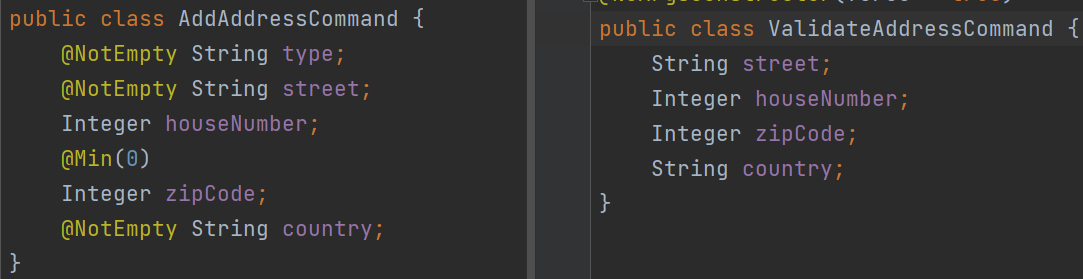
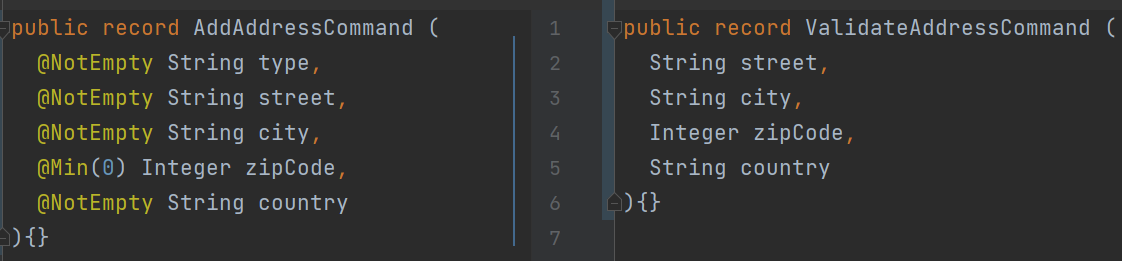
added records + minor bugfixes

diff --git a/application/src/test/java/de/strasser/peter/hexagonal/application/service/AddressServiceTest.java b/application/src/test/java/de/strasser/peter/hexagonal/application/service/AddressServiceTest.java
@@ -12,6 +12,7 @@ import org.springframework.beans.factory.annotation.Autowired;
 import org.springframework.boot.test.context.SpringBootTest;
 import org.springframework.boot.test.mock.mockito.MockBean;
 
+import javax.validation.ConstraintViolationException;
 import java.math.BigInteger;
 import java.time.LocalDate;
 import java.util.List;
@@ -43,18 +44,18 @@ class AddressServiceTest {
         .willReturn(Customer.createCustomer(customerId, name, passwd, birthday, null, false));
 
     final String street = "Parkring";
-    final int houseNumber = 57;
+    final String city = "Garching";
     final int zipCode = 85748;
     final String country = "Germany";
 
-    final Address validatedAddress = new Address(street, houseNumber, zipCode, country);
+    final Address validatedAddress = new Address(street, city, zipCode, country);
     final ValidateAddressCommand validateAddressCmd =
-        new ValidateAddressCommand(street, houseNumber, zipCode, country);
+        new ValidateAddressCommand(street, city, zipCode, country);
 
     given(addressValidatorAdapterMock.validate(validateAddressCmd)).willReturn(validatedAddress);
 
     final List<AddAddressCommand> addAddressCmds =
-        List.of(new AddAddressCommand("billing", street, houseNumber, zipCode, country));
+        List.of(new AddAddressCommand("billing", street, city, zipCode, country));
 
     sut.addAddresses(customerId, addAddressCmds);
 
@@ -81,18 +82,18 @@ class AddressServiceTest {
         .willReturn(Customer.createCustomer(customerId, name, passwd, birthday, null, false));
 
     final String street = "Parkring";
-    final int houseNumber = 57;
+    final String city = "Garching";
     final int zipCode = 85748;
     final String country = "Germany";
 
-    final Address validatedAddress = new Address(street, houseNumber, zipCode, country);
+    final Address validatedAddress = new Address(street, city, zipCode, country);
     final ValidateAddressCommand validateAddressCmd =
-        new ValidateAddressCommand(street, houseNumber, zipCode, country);
+        new ValidateAddressCommand(street, city, zipCode, country);
 
     given(addressValidatorAdapterMock.validate(validateAddressCmd)).willReturn(validatedAddress);
 
     final List<AddAddressCommand> addAddressCmds =
-        List.of(new AddAddressCommand("default", street, houseNumber, zipCode, country));
+        List.of(new AddAddressCommand("default", street, city, zipCode, country));
 
     sut.addAddresses(customerId, addAddressCmds);
 
@@ -119,20 +120,42 @@ class AddressServiceTest {
         .willReturn(Customer.createCustomer(customerId, name, passwd, birthday, null, false));
 
     final String street = "Parkring";
-    final int houseNumber = 57;
+    final String city = "Garching";
     final int zipCode = 85748;
     final String country = "Germany";
 
     final ValidateAddressCommand validateAddressCmd =
-        new ValidateAddressCommand(street, houseNumber, zipCode, country);
+        new ValidateAddressCommand(street, city, zipCode, country);
 
     given(addressValidatorAdapterMock.validate(validateAddressCmd))
         .willThrow(new IllegalArgumentException("invalid adress"));
 
     final List<AddAddressCommand> addAddressCmds =
-        List.of(new AddAddressCommand("billing", street, houseNumber, zipCode, country));
+        List.of(new AddAddressCommand("billing", street, city, zipCode, country));
 
     assertThrows(
         IllegalArgumentException.class, () -> sut.addAddresses(customerId, addAddressCmds));
+  }
+
+  @Test
+  public void should_ThrowConstrainValidationError_When_ProvidingNoCity() {
+    // GIVEN
+    final var customerId = BigInteger.valueOf(13);
+    final var name = "hans";
+    final var birthday = LocalDate.of(1980, 1, 1);
+    final var passwd = "secretPw";
+
+    given(loadCustomerAdapterMock.findById(any()))
+        .willReturn(Customer.createCustomer(customerId, name, passwd, birthday, null, false));
+
+    final String street = "Parkring";
+    final String city = null;
+    final int zipCode = 85748;
+    final String country = "Germany";
+    final List<AddAddressCommand> addAddressCmds =
+        List.of(new AddAddressCommand("billing", street, city, zipCode, country));
+
+    assertThrows(
+            ConstraintViolationException.class, () -> sut.addAddresses(customerId, addAddressCmds));
   }
 }

diff --git a/adapter/persistence/src/main/java/de/strasser/peter/hexagonal/persistence/mapper/CustomerMapper.java b/adapter/persistence/src/main/java/de/strasser/peter/hexagonal/persistence/mapper/CustomerMapper.java
@@ -33,15 +33,15 @@ public interface CustomerMapper {
         customer.getBirthday(),
         customer.isActive(),
         getAddressAttribute(customer, Address.AddressType.DEFAULT, Address::getStreet),
-        getAddressAttribute(customer, Address.AddressType.DEFAULT, Address::getHouseNumber),
+        getAddressAttribute(customer, Address.AddressType.DEFAULT, Address::getCity),
         getAddressAttribute(customer, Address.AddressType.DEFAULT, Address::getZipCode),
         getAddressAttribute(customer, Address.AddressType.DEFAULT, Address::getCountry),
         getAddressAttribute(customer, Address.AddressType.SHIPPING, Address::getStreet),
-        getAddressAttribute(customer, Address.AddressType.SHIPPING, Address::getHouseNumber),
+        getAddressAttribute(customer, Address.AddressType.SHIPPING, Address::getCity),
         getAddressAttribute(customer, Address.AddressType.SHIPPING, Address::getZipCode),
         getAddressAttribute(customer, Address.AddressType.SHIPPING, Address::getCountry),
         getAddressAttribute(customer, Address.AddressType.BILLING, Address::getStreet),
-        getAddressAttribute(customer, Address.AddressType.BILLING, Address::getHouseNumber),
+        getAddressAttribute(customer, Address.AddressType.BILLING, Address::getCity),
         getAddressAttribute(customer, Address.AddressType.BILLING, Address::getZipCode),
         getAddressAttribute(customer, Address.AddressType.BILLING, Address::getCountry),
         null);
@@ -66,16 +66,16 @@ public interface CustomerMapper {
           Address.AddressType.DEFAULT,
           new Address(
               customerEntity.getStreet(),
-              customerEntity.getHouseNumber(),
+              customerEntity.getCity(),
               customerEntity.getZipCode(),
               customerEntity.getCountry()));
     }
-    if (customerEntity.getBillingStreet() != null) {
+    if (customerEntity.getShippingStreet() != null) {
       addresses.put(
           Address.AddressType.SHIPPING,
           new Address(
               customerEntity.getShippingStreet(),
-              customerEntity.getShippingHouseNumber(),
+              customerEntity.getShippingCity(),
               customerEntity.getShippingZipCode(),
               customerEntity.getShippingCountry()));
     }
@@ -84,7 +84,7 @@ public interface CustomerMapper {
           Address.AddressType.BILLING,
           new Address(
               customerEntity.getBillingStreet(),
-              customerEntity.getBillingHouseNumber(),
+              customerEntity.getBillingCity(),
               customerEntity.getBillingZipCode(),
               customerEntity.getBillingCountry()));
     }

diff --git a/application/src/main/java/de/strasser/peter/hexagonal/application/service/AddressService.java b/application/src/main/java/de/strasser/peter/hexagonal/application/service/AddressService.java
@@ -10,6 +10,7 @@ import de.strasser.peter.hexagonal.application.port.out.LoadCustomerPort;
 import de.strasser.peter.hexagonal.application.port.out.SaveCustomerPort;
 import de.strasser.peter.hexagonal.common.UseCase;
 import lombok.RequiredArgsConstructor;
+import org.springframework.validation.annotation.Validated;
 
 import javax.transaction.Transactional;
 import javax.validation.Valid;
@@ -21,6 +22,7 @@ import java.util.List;
 import java.util.Map;
 
 @UseCase
+@Validated
 @Transactional
 @RequiredArgsConstructor
 class AddressService implements AddAddressUseCase {
@@ -43,7 +45,7 @@ class AddressService implements AddAddressUseCase {
 
   private void validateAndAddToMap(
       Map<Address.AddressType, Address> addresses, AddAddressCommand addAddressCommand) {
-    final var addressType = Address.AddressType.fromString(addAddressCommand.getType());
+    final var addressType = Address.AddressType.fromString(addAddressCommand.type());
     final var validateAddressCmd = addAddressMapper.toOutCmd(addAddressCommand);
     final var validatedAddress = addressValidatorAdapter.validate(validateAddressCmd);
 

diff --git a/adapter/web/src/main/java/de/strasser/peter/hexagonal/web/mapper/RegisterCustomerWebMapper.java b/adapter/web/src/main/java/de/strasser/peter/hexagonal/web/mapper/RegisterCustomerWebMapper.java
@@ -3,10 +3,18 @@ package de.strasser.peter.hexagonal.web.mapper;
 import de.strasser.peter.hexagonal.application.port.in.commands.RegisterCustomerCommand;
 import de.strasser.peter.hexagonal.web.dto.request.RegisterCustomerRequest;
 import org.mapstruct.Mapper;
-import org.mapstruct.Mapping;
 
 @Mapper
 public interface RegisterCustomerWebMapper {
-  @Mapping(source = "password", target = "clearPassword")
-  RegisterCustomerCommand toCmd(RegisterCustomerRequest registerCustomerRequest);
+  /**
+   * Can not be mapped by MapStruct currently, due to bug in JDK 16.
+   * https://github.com/mapstruct/mapstruct/issues/2294 @Mapping(source = "password", target =
+   * "clearPassword")
+   */
+  default RegisterCustomerCommand toCmd(RegisterCustomerRequest registerCustomerRequest) {
+    return new RegisterCustomerCommand(
+        registerCustomerRequest.getName(),
+        registerCustomerRequest.getBirthDay(),
+        registerCustomerRequest.getPassword());
+  }
 }

diff --git a/application/src/test/java/de/strasser/peter/hexagonal/application/domain/CustomerTest.java b/application/src/test/java/de/strasser/peter/hexagonal/application/domain/CustomerTest.java
@@ -28,7 +28,7 @@ class CustomerTest {
   @Test
   public void should_ActivateCustomer_When_AddingDefaultAddress() {
     final Customer customer = Customer.newCustomer("name", "pw", LocalDate.of(1980, 1, 1));
-    final Address address = new Address("Parkring", 59, 85748, "Germany");
+    final Address address = new Address("Parkring", "Garching", 85748, "Germany");
 
     customer.addAddresses(Collections.singletonMap(Address.AddressType.DEFAULT, address));
 
@@ -38,7 +38,7 @@ class CustomerTest {
   @Test
   public void should_NotActivateCustomer_When_AddingBillingAddress() {
     final Customer customer = Customer.newCustomer("name", "pw", LocalDate.of(1980, 1, 1));
-    final Address address = new Address("Parkring", 59, 85748, "Germany");
+    final Address address = new Address("Parkring", "Garching", 85748, "Germany");
 
     customer.addAddresses(Collections.singletonMap(Address.AddressType.BILLING, address));
 

diff --git a/adapter/addressvalidation/src/main/java/de/strasser/peter/hexagonal/addressvalidation/AddressValidator.java b/adapter/addressvalidation/src/main/java/de/strasser/peter/hexagonal/addressvalidation/AddressValidator.java
@@ -13,15 +13,15 @@ class AddressValidator implements AddressValidatorPort {
   @Override
   public Address validate(ValidateAddressCommand validateAddressCommand) throws InvalidAddressExc {
     // This could be some call to a 3rd party to validate this address.
-    if (validateAddressCommand.getStreet().equalsIgnoreCase("parkring")) {
+    if (validateAddressCommand.street().equalsIgnoreCase("parkring")) {
       log.info("Address is made up.");
       throw new InvalidAddressExc(validateAddressCommand);
     }
 
     return new Address(
-        validateAddressCommand.getStreet(),
-        validateAddressCommand.getHouseNumber(),
-        validateAddressCommand.getZipCode(),
-        validateAddressCommand.getCountry());
+        validateAddressCommand.street(),
+        validateAddressCommand.city(),
+        validateAddressCommand.zipCode(),
+        validateAddressCommand.country());
   }
 }

diff --git a/application/src/main/java/de/strasser/peter/hexagonal/application/port/in/commands/RegisterCustomerCommand.java b/application/src/main/java/de/strasser/peter/hexagonal/application/port/in/commands/RegisterCustomerCommand.java
@@ -1,19 +1,14 @@
 package de.strasser.peter.hexagonal.application.port.in.commands;
 
 import de.strasser.peter.hexagonal.application.validator.SecurePassword;
-import lombok.AllArgsConstructor;
-import lombok.Data;
-import lombok.NoArgsConstructor;
 
 import javax.validation.constraints.NotEmpty;
 import javax.validation.constraints.Past;
 import java.time.LocalDate;
 
-@Data
-@AllArgsConstructor
-@NoArgsConstructor(force = true)
-public class RegisterCustomerCommand {
-  @NotEmpty String name;
-  @Past LocalDate birthDay;
-  @SecurePassword String clearPassword;
-}
+
+public record RegisterCustomerCommand (
+  @NotEmpty String name,
+  @Past LocalDate birthDay,
+  @SecurePassword String clearPassword
+){}

diff --git a/adapter/addressvalidation/src/main/java/de/strasser/peter/hexagonal/addressvalidation/InvalidAddressExc.java b/adapter/addressvalidation/src/main/java/de/strasser/peter/hexagonal/addressvalidation/InvalidAddressExc.java
@@ -7,10 +7,10 @@ public class InvalidAddressExc extends BusinessException {
   public InvalidAddressExc(ValidateAddressCommand validateAddressCommand) {
     super(
         String.format(
-            "Address <%s, %d, %d, %s> does not exist",
-            validateAddressCommand.getStreet(),
-            validateAddressCommand.getHouseNumber(),
-            validateAddressCommand.getZipCode(),
-            validateAddressCommand.getCountry()));
+            "Address <%s, %s, %d, %s> does not exist",
+            validateAddressCommand.street(),
+            validateAddressCommand.city(),
+            validateAddressCommand.zipCode(),
+            validateAddressCommand.country()));
   }
 }

diff --git a/application/src/main/java/de/strasser/peter/hexagonal/application/port/in/commands/AddAddressCommand.java b/application/src/main/java/de/strasser/peter/hexagonal/application/port/in/commands/AddAddressCommand.java
@@ -1,22 +1,12 @@
 package de.strasser.peter.hexagonal.application.port.in.commands;
 
-import lombok.AllArgsConstructor;
-import lombok.Data;
-import lombok.NoArgsConstructor;
-
 import javax.validation.constraints.Min;
 import javax.validation.constraints.NotEmpty;
 
-@Data
-@AllArgsConstructor
-@NoArgsConstructor(force = true)
-public class AddAddressCommand {
-  @NotEmpty String type;
-  @NotEmpty String street;
-  Integer houseNumber;
-
-  @Min(0)
-  Integer zipCode;
-
-  @NotEmpty String country;
-}
+public record AddAddressCommand (
+  @NotEmpty String type,
+  @NotEmpty String street,
+  @NotEmpty String city,
+  @Min(0) Integer zipCode,
+  @NotEmpty String country
+){}

diff --git a/adapter/web/src/main/java/de/strasser/peter/hexagonal/web/mapper/AddAddressWebMapper.java b/adapter/web/src/main/java/de/strasser/peter/hexagonal/web/mapper/AddAddressWebMapper.java
@@ -6,5 +6,16 @@ import org.mapstruct.Mapper;
 
 @Mapper
 public interface AddAddressWebMapper {
-  AddAddressCommand toCmd(AddAddressRequest addAddressRequest);
+  /**
+   * Can not be mapped by MapStruct currently, due to bug in JDK 16.
+   * https://github.com/mapstruct/mapstruct/issues/2294
+   */
+  default AddAddressCommand toCmd(AddAddressRequest addAddressRequest) {
+    return new AddAddressCommand(
+        addAddressRequest.getType(),
+        addAddressRequest.getStreet(),
+        addAddressRequest.getCity(),
+        addAddressRequest.getZipCode(),
+        addAddressRequest.getCountry());
+  }
 }

diff --git a/application/src/main/java/de/strasser/peter/hexagonal/application/service/RegisterCustomerService.java b/application/src/main/java/de/strasser/peter/hexagonal/application/service/RegisterCustomerService.java
@@ -20,9 +20,9 @@ class RegisterCustomerService implements RegisterCustomerUseCase {
 
   @Override
   public void register(@Valid RegisterCustomerCommand registerCmd) {
-    var encryptedPw = this.superSecureHashingAlgorithm(registerCmd.getClearPassword());
+    var encryptedPw = this.superSecureHashingAlgorithm(registerCmd.clearPassword());
     var newCustomer =
-        Customer.newCustomer(registerCmd.getName(), encryptedPw, registerCmd.getBirthDay());
+        Customer.newCustomer(registerCmd.name(), encryptedPw, registerCmd.birthDay());
 
     saveUser.upsert(newCustomer);
   }

diff --git a/adapter/persistence/src/main/java/de/strasser/peter/hexagonal/persistence/model/CustomerEntity.java b/adapter/persistence/src/main/java/de/strasser/peter/hexagonal/persistence/model/CustomerEntity.java
@@ -23,17 +23,17 @@ public class CustomerEntity {
   private boolean active;
 
   private String street;
-  private Integer houseNumber;
+  private String city;
   private Integer zipCode;
   private String country;
 
   private String shippingStreet;
-  private Integer shippingHouseNumber;
+  private String shippingCity;
   private Integer shippingZipCode;
   private String shippingCountry;
 
   private String billingStreet;
-  private Integer billingHouseNumber;
+  private String billingCity;
   private Integer billingZipCode;
   private String billingCountry;
 
